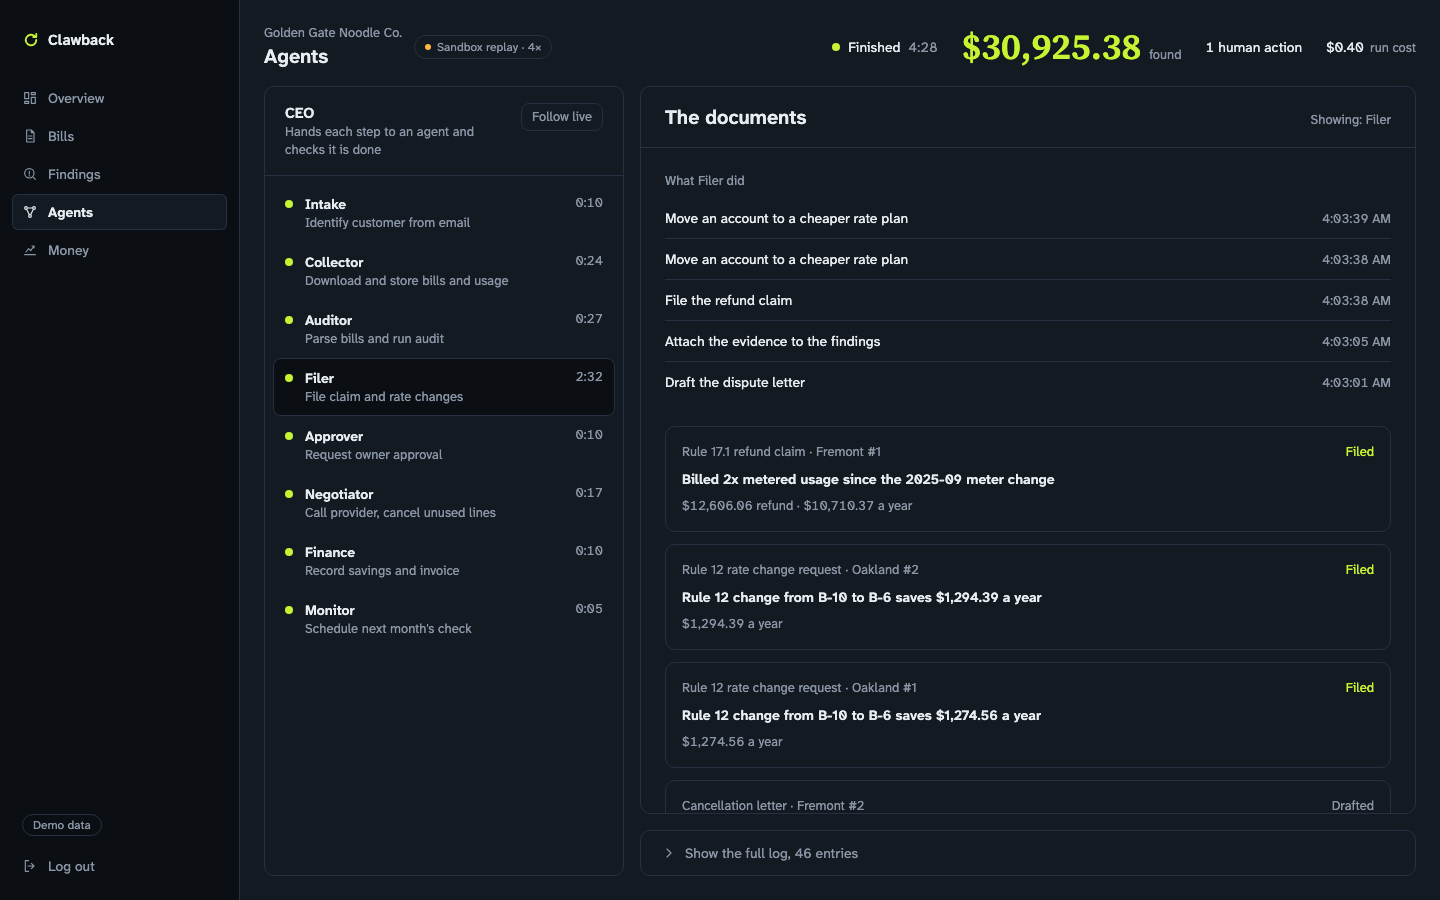
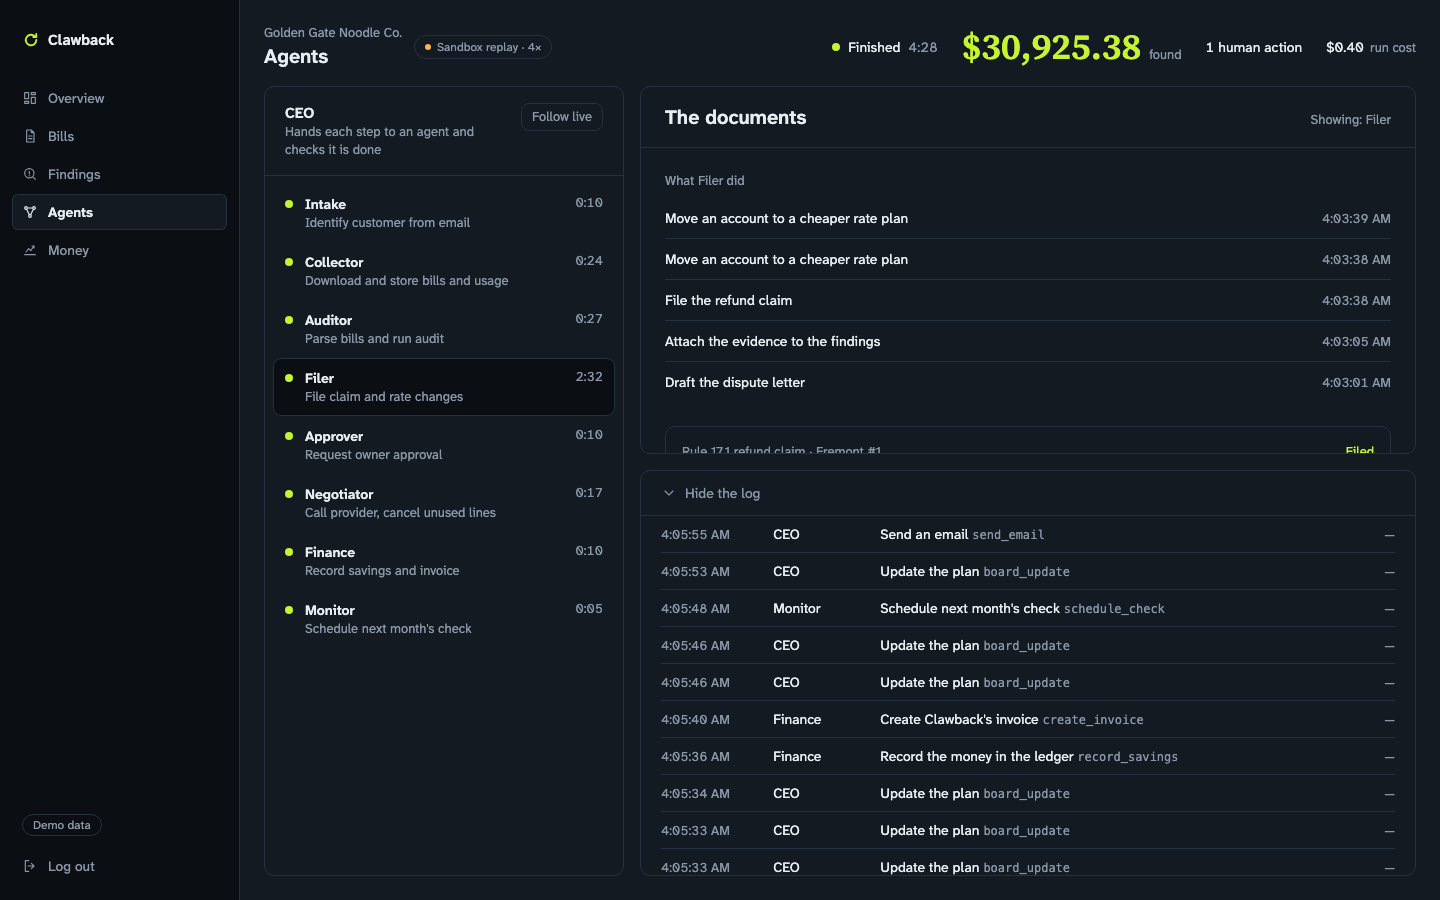
No empty screen below /agents (human, 2026-11-08), and no sideways scroll on Money at 390
The full log's scroller was not positioned, so each row's sr-only text escaped its clip and stretched the
page by a screen of background. The log and timeline scrollers are now relative. Money's grids gave their
auto column the ledger table's full width at 390; their base column is now minmax(0,1fr).
agents-shots checks every moment, every pick (log open) and Overview, Bills, Findings, Money at each size
end where their content ends.

Changed region(s): [[0.4375, 0.4978, 0.9688, 0.9644], [0.9375, 0.6222, 0.9688, 0.6533], [0.9375, 0.4978, 0.9688, 0.5289]]

diff --git a/scripts/agents-shots.ts b/scripts/agents-shots.ts
@@ -1,7 +1,8 @@
 /// <reference lib="dom" />
 // Screenshots /agents at five moments of the recorded run (start, finding, approval, call, done) at 1920x1080, 1440x900 and 390x844, and checks each:
 // no "No … yet" text, no horizontal scroll, no clipped agent action, the call at its newest line. Then, on the finished run at 1440, picks
-// each agent in turn (pick-<agent>-1440.png, and pick-follow-1440.png) and checks every pick shows a view of its own. Replays data/replay/run.jsonl into DATABASE_URL, so point it at your own database.
+// each agent in turn with the full log open (pick-<agent>-1440.png, and pick-follow-1440.png) and checks every pick shows a view of its own.
+// Every shot, and Overview, Bills, Findings and Money at each size, must end where its content ends. Replays data/replay/run.jsonl into DATABASE_URL, so point it at your own database.
 // pnpm dev:dashboard must be running. No model, voice or network cost.
 // pnpm exec tsx --env-file-if-exists=.env scripts/agents-shots.ts <folder> [--speed N] [--no-check]
 import { spawn } from "node:child_process";
@@ -49,6 +50,10 @@ async function problems(page: Page) {
     const found: string[] = [];
     const doc = document.documentElement;
     if (doc.scrollWidth > doc.clientWidth) found.push(`horizontal scroll: ${doc.scrollWidth} > ${doc.clientWidth}`);
+    // The page ends where its content does: nothing out of sight (sr-only text in a scroller, say) may stretch it into empty background.
+    const content = document.querySelector("[data-fit-screen]") ?? document.querySelector("main");
+    const end = content ? Math.ceil(content.getBoundingClientRect().bottom + window.scrollY + parseFloat(getComputedStyle(content.parentElement!).paddingBottom || "0")) : 0;
+    if (content && document.scrollingElement!.scrollHeight > Math.max(end, window.innerHeight) + 1) found.push(`page taller than its content: ${document.scrollingElement!.scrollHeight} > ${end}`);
     const empty = document.body.innerText.match(/\bNo [a-z ]+ yet\b/);
     if (empty) found.push(`empty state: "${empty[0]}"`);
     // Entering the call with a long transcript must land on its newest line, or useFollow stops following.
@@ -110,6 +115,8 @@ try {
 
   // Each agent's pick on the finished run: its own view and its own content, never another agent's.
   const { page } = pages.find(({ viewport }) => viewport.name === "1440")!;
+  // With the full log open, as the human had it when the page grew an empty screen.
+  await page.locator("summary", { hasText: "Show the full log" }).click();
   const seen = new Map<string, string>();
   for (const agent of [...ROSTER, "follow"]) {
     if (agent === "follow") await page.getByRole("button", { name: "Follow live" }).click();
@@ -125,6 +132,17 @@ try {
     if (check) for (const problem of await problems(page)) failures.push(`pick ${agent}: ${problem}`);
   }
   console.info("shot the picks");
+
+  // The other app pages, at every size: the same height check.
+  if (check) {
+    for (const { viewport, page } of pages) {
+      for (const path of ["/overview", "/bills", "/findings", "/money"]) {
+        await page.goto(`${BASE}${path}`);
+        await page.waitForTimeout(1500);
+        for (const problem of await problems(page)) failures.push(`${path} at ${viewport.name}: ${problem}`);
+      }
+    }
+  }
 } finally {
   replay.kill();
   await browser.close();

diff --git a/apps/dashboard/components/savings/money.tsx b/apps/dashboard/components/savings/money.tsx
@@ -76,7 +76,7 @@ export function MoneyView({ snapshot }: { snapshot: Snapshot | null | undefined 
   return (
     <Page>
       <PageHeader title="Money" crumb={snapshot?.customer?.name} replay={replayOf(snapshot?.run)} description="Every amount in your ledger, Clawback's invoice and card payments." />
-      <div className="grid gap-8">
+      <div className="grid grid-cols-[minmax(0,1fr)] gap-8">
         {snapshot && view.rows.length === 0 && (
           <EmptyState title="Nothing in your ledger yet" action={<ButtonLink href="/agents">Watch your agents work</ButtonLink>}>
             Refunds, savings and Clawback&apos;s fee are recorded here once the agents file them.
@@ -84,7 +84,7 @@ export function MoneyView({ snapshot }: { snapshot: Snapshot | null | undefined 
         )}
         {view.rows.length > 0 && (
           <>
-            <div className="grid gap-6 min-[1000px]:grid-cols-[7fr_5fr]">
+            <div className="grid grid-cols-[minmax(0,1fr)] gap-6 min-[1000px]:grid-cols-[7fr_5fr]">
               <section aria-labelledby="keeps-title" className="rounded-card border border-line bg-sheet p-6">
                 <div className="flex flex-wrap items-center justify-between gap-3">
                   <h2 id="keeps-title" className="text-label text-faded">
@@ -143,7 +143,7 @@ export function MoneyView({ snapshot }: { snapshot: Snapshot | null | undefined 
           </>
         )}
 
-        <div className="grid gap-6 min-[1000px]:grid-cols-2">
+        <div className="grid grid-cols-[minmax(0,1fr)] gap-6 min-[1000px]:grid-cols-2">
         <Card title="Clawback's invoice">
           <p className="mb-4 inline-block rounded-full border border-line px-3 py-0.5 text-label text-faded">Stripe test mode</p>
           {invoice ? (

diff --git a/apps/dashboard/components/agents/audit-log.tsx b/apps/dashboard/components/agents/audit-log.tsx
@@ -24,7 +24,8 @@ export function AuditLog() {
         <span className="group-open:hidden">Show the full log, {count.format(total)} entries</span>
         <span className="hidden group-open:inline">Hide the log</span>
       </summary>
-      <div className="max-h-[40dvh] overflow-y-auto border-t border-line px-5 pb-3">
+      {/* relative: the rows' sr-only text is absolutely positioned, and must stay inside this scroller or it stretches the page. */}
+      <div className="relative max-h-[40dvh] overflow-y-auto border-t border-line px-5 pb-3">
         {total > rows.length && (
           <p data-testid="audit-capped" className="pt-3 text-label text-faded">
             Newest {count.format(rows.length)} of {count.format(total)}

diff --git a/apps/dashboard/components/agents/timeline.tsx b/apps/dashboard/components/agents/timeline.tsx
@@ -59,7 +59,7 @@ export function Timeline({ ceo, rows, picked, onPick }: { ceo: AgentRow; rows: A
           </button>
         )}
       </div>
-      <ol className="min-h-0 flex-1 overflow-y-auto p-2">
+      <ol className="relative min-h-0 flex-1 overflow-y-auto p-2">
         {rows.map((row) => (
           <Row key={row.agent} row={row} picked={row.agent === picked} onPick={() => onPick(row.agent === picked ? null : row.agent)} />
         ))}
